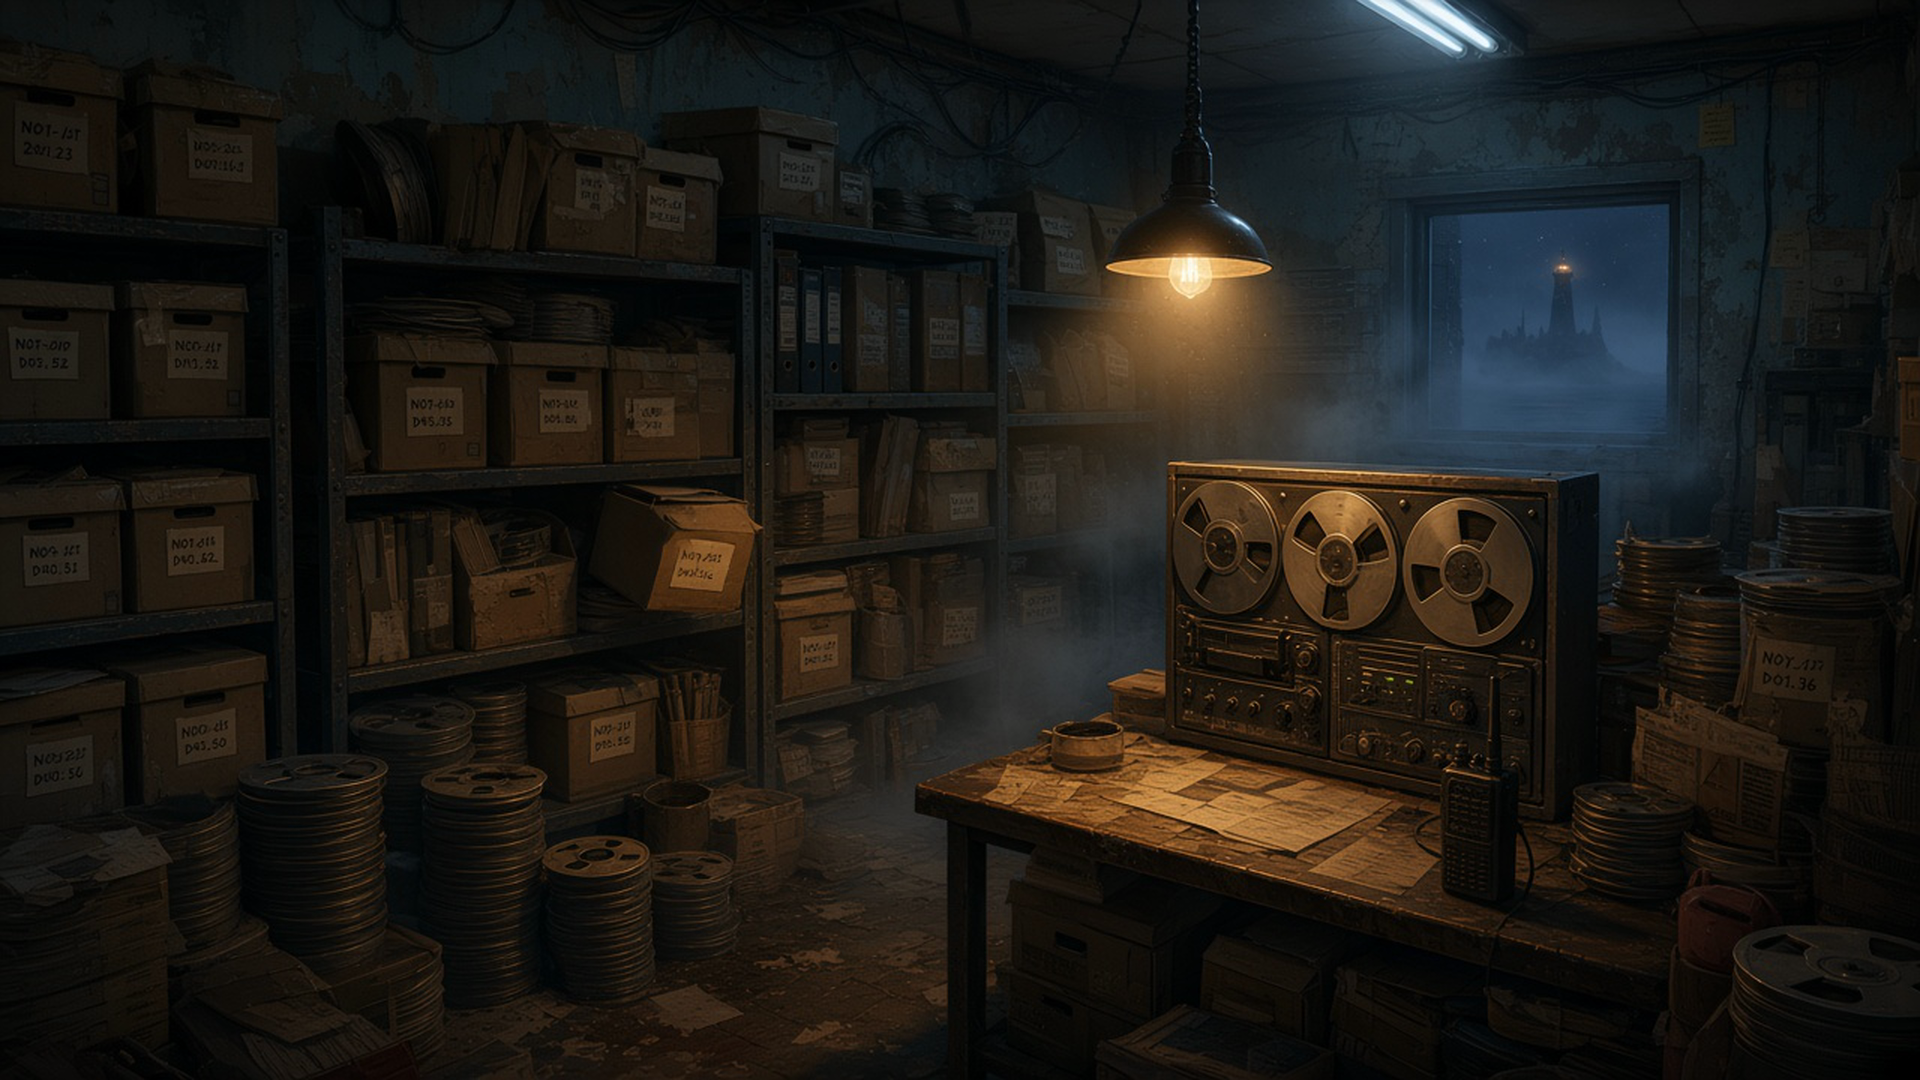
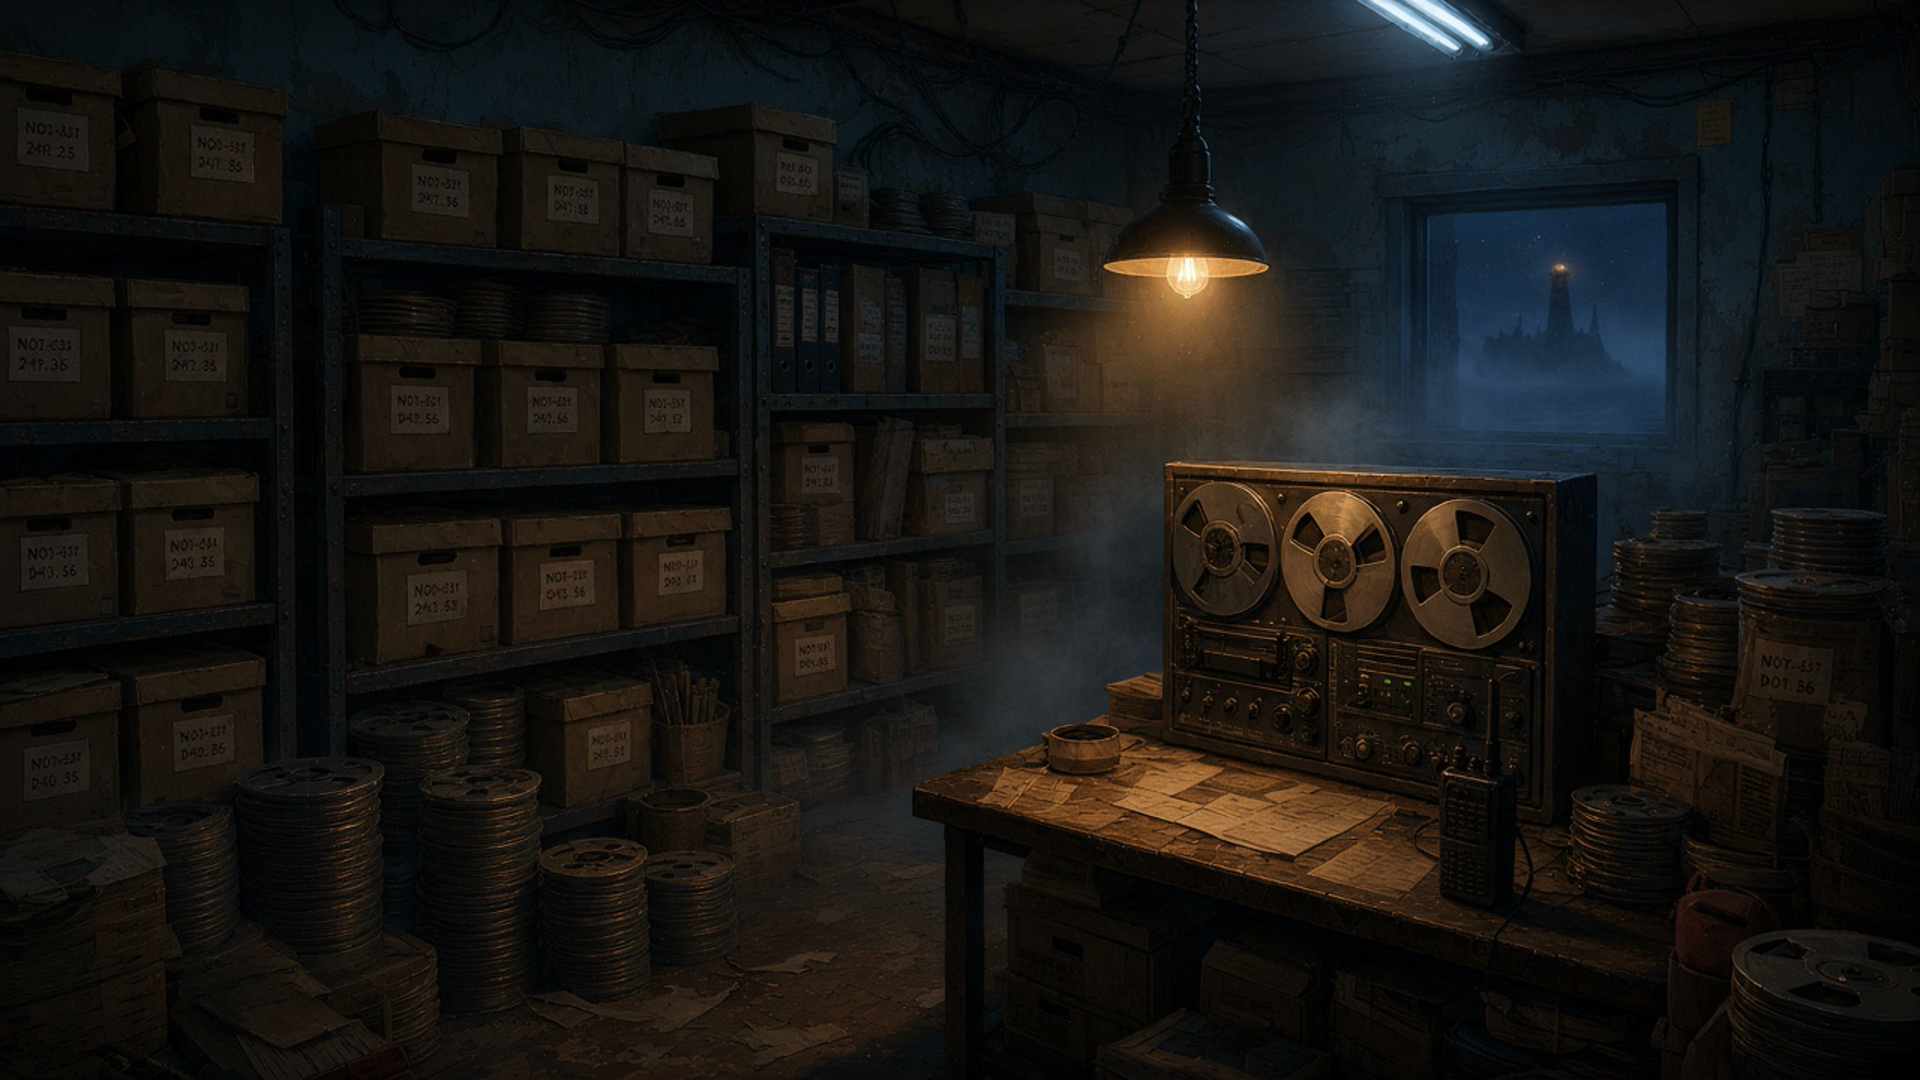
feat(haemu-radio): cleaner desk, archive, and roof room backgrounds
Continue the #44 broadcast-station cleanup for writer's desk, archive,
and rooftop full-bleed art. Retune % hit boxes for board, letter, tape,
walkie, and tower so interactions track the new prop anchors.

diff --git a/src/app/globals.css b/src/app/globals.css
@@ -614,42 +614,42 @@ html[data-radio-hits='show'] .radio-hit {
   height: 22%;
 }
 
-/* Writer's desk (rooms/desk.png) */
+/* Writer's desk (rooms/desk.png) — 4-panel cue board + letter slot 2 */
 .radio-hit[data-hit='board'] {
-  left: 34%;
-  top: 40%;
-  width: 34%;
-  height: 34%;
+  left: 36%;
+  top: 42%;
+  width: 30%;
+  height: 32%;
 }
 
 .radio-hit[data-hit='letter'] {
   left: 42%;
-  top: 46%;
-  width: 12%;
-  height: 28%;
-}
-
-/* Archive (rooms/archive.png) — left shelves + desk walkie */
-.radio-hit[data-hit='tape'] {
-  left: 6%;
-  top: 16%;
-  width: 34%;
-  height: 54%;
-}
-
-.radio-hit[data-hit='walkie'] {
-  left: 72%;
-  top: 54%;
+  top: 48%;
   width: 12%;
   height: 26%;
 }
 
-/* Roof (rooms/roof.png) — center TX cabinet */
+/* Archive (rooms/archive.png) — left shelves + desk walkie */
+.radio-hit[data-hit='tape'] {
+  left: 4%;
+  top: 14%;
+  width: 36%;
+  height: 56%;
+}
+
+.radio-hit[data-hit='walkie'] {
+  left: 70%;
+  top: 52%;
+  width: 12%;
+  height: 28%;
+}
+
+/* Roof (rooms/roof.png) — center-right TX cabinet */
 .radio-hit[data-hit='tower'] {
-  left: 40%;
-  top: 42%;
-  width: 26%;
-  height: 32%;
+  left: 44%;
+  top: 38%;
+  width: 30%;
+  height: 34%;
 }
 
 .radio-flow > * {

diff --git a/public/themes/haemu-radio/CREDITS.md b/public/themes/haemu-radio/CREDITS.md
@@ -13,9 +13,9 @@
 |---|---|---|---|
 | `rooms/control.png` | 부조정실 풀블리드 페인티드 BG (1920×1080) | 원작 일러스트 | R-BG-02. 밤·책상램프·ON AIR·창밖 등대. 정리된 방송실(쓰레기·얼룩 줄임) |
 | `rooms/booth.png` | 부스 풀블리드 페인티드 BG (1920×1080) | 원작 일러스트 | R-BG-03. 콘솔·마이크·탁상 라디오·카트리지 랙·빈 DJ 의자. 정리된 심야 부스 |
-| `rooms/desk.png` | 작가석 풀블리드 페인티드 BG (1920×1080) | 원작 일러스트 | R-BG-05. 원고 보드 4칸·사연함·책상램프·코르크보드 |
-| `rooms/archive.png` | 아카이브실 풀블리드 페인티드 BG (1920×1080) | 원작 일러스트 | R-BG-06. 테이프 선반·데크·무전기·따뜻한 펜던트 램프 |
-| `rooms/roof.png` | 옥상 풀블리드 페인티드 BG (1920×1080) | 원작 일러스트 | R-BG-08. 안개·송신기·빨간 경고등·문 빛 Spill |
+| `rooms/desk.png` | 작가석 풀블리드 페인티드 BG (1920×1080) | 원작 일러스트 | R-BG-05. 원고 보드 4칸·사연함·책상램프·코르크보드. 정리된 방송 작가석 |
+| `rooms/archive.png` | 아카이브실 풀블리드 페인티드 BG (1920×1080) | 원작 일러스트 | R-BG-06. 테이프 선반·데크·무전기·따뜻한 펜던트 램프. 정리된 아카이브 |
+| `rooms/roof.png` | 옥상 풀블리드 페인티드 BG (1920×1080) | 원작 일러스트 | R-BG-08. 안개·송신기·빨간 경고등·문 빛 Spill. 정리된 옥상 TX |
 | `props/*.svg` | 소품·단서 아이콘 (L2 손때) | 원작 SVG | 부조정실·부스·작가석·아카이브·옥상 핫스팟 아이콘 |
 
 ### clue-locked
